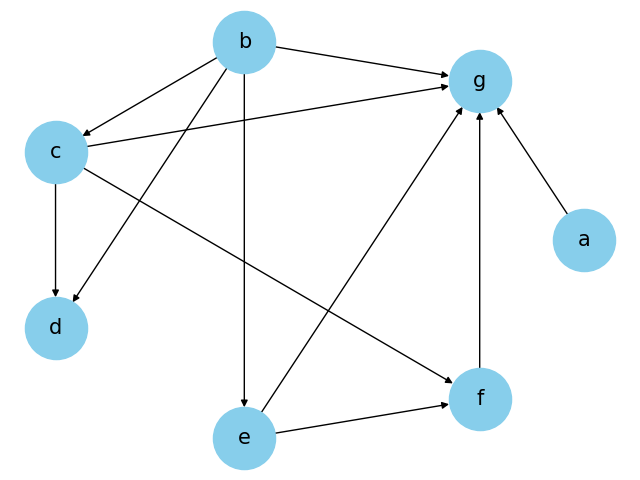
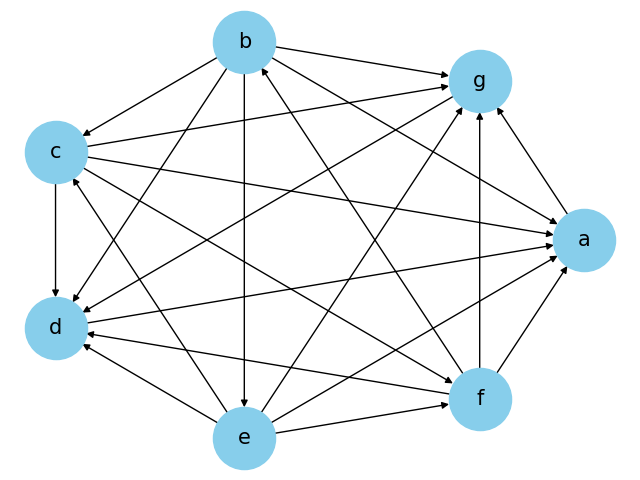
finished the graph visualization for problem 4

diff --git a/hw2/p4.py b/hw2/p4.py
@@ -4,7 +4,7 @@ import matplotlib.pyplot as plt
 def generate_graph(adjacency_matrix: list, G):
     mapping = {0: 'a', 1: 'b', 2: 'c', 3: 'd', 4: 'e', 5: 'f', 6: 'g'}
     for i in range(len(adjacency_matrix)):
-        for j in range(i + 1, len(adjacency_matrix[i])):
+        for j in range(len(adjacency_matrix[i])):
             if adjacency_matrix[i][j] == 1:
                 G.add_edge(mapping[i], mapping[j])
 
@@ -12,7 +12,7 @@ def generate_graph(adjacency_matrix: list, G):
     nx.draw(G, pos, with_labels = True, node_color = "skyblue", node_size = 2000, edge_color = "black", arrows = True, font_size = 15)
     edge_labels = nx.get_edge_attributes(G, 'weight')
     nx.draw_networkx_edge_labels(G, pos, edge_labels=edge_labels)
-    print(G.out_edges())
+    print(G.out_degree())
     plt.show()
 
 if __name__ == "__main__":
